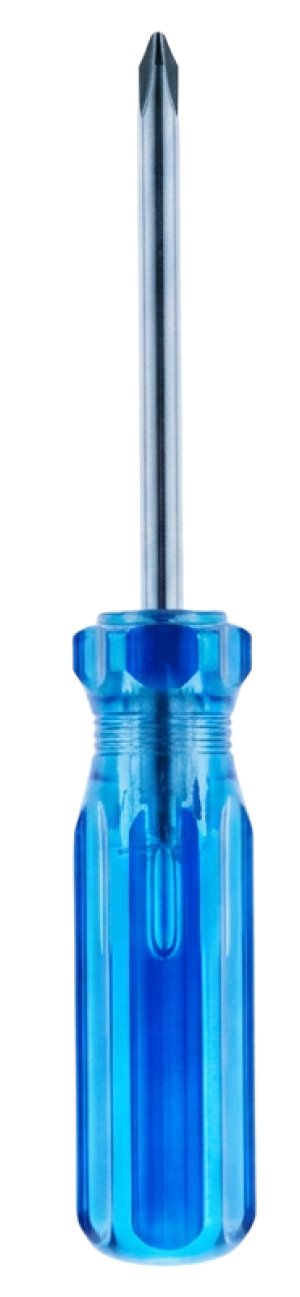
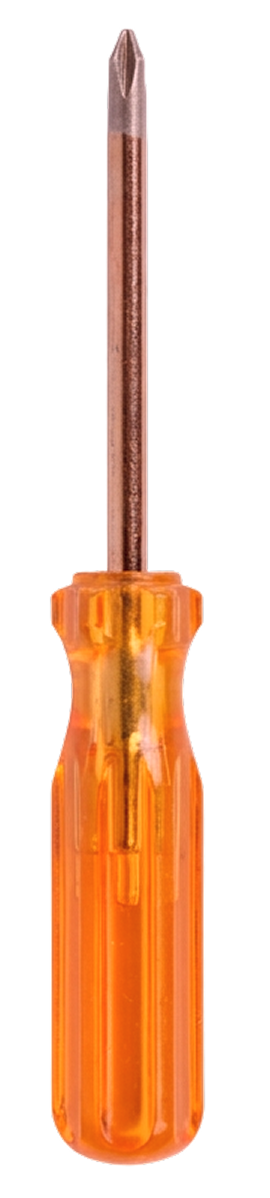
yeee

diff --git a/src/components/CanvasItem.vue b/src/components/CanvasItem.vue
@@ -18,6 +18,7 @@
       :style="imageStyle"
     >
     <slot v-else />
+    <span v-if="badge" class="canvas-item__badge type-h3" aria-hidden="true">{{ badge }}</span>
   </div>
 </template>
 
@@ -57,6 +58,10 @@ const props = defineProps({
   alt: {
     type: String,
     default: '',
+  },
+  badge: {
+    type: [String, Number],
+    default: null,
   },
   hover: {
     type: Boolean,
@@ -156,5 +161,29 @@ const positionStyle = computed(() => {
 
 .canvas-item__image--auto-height {
   height: auto;
+}
+
+.canvas-item__badge {
+  position: absolute;
+  bottom: 8px;
+  left: 8px;
+  display: inline-flex;
+  align-items: center;
+  justify-content: center;
+  width: 1.75rem;
+  height: 1.75rem;
+  border: 1px solid var(--color-black);
+  border-radius: 50%;
+  line-height: 1;
+  pointer-events: none;
+  transition:
+    background-color 0.2s ease-out,
+    border-color 0.2s ease-out;
+}
+
+/* Hovering the object fills its numeral in, dropping the outline. */
+.canvas-item:not(.canvas-item--decorative):hover .canvas-item__badge {
+  border-color: transparent;
+  background: var(--color-yellow);
 }
 </style>

diff --git a/src/App.vue b/src/App.vue
@@ -120,9 +120,9 @@ watch(article02Open, (isOpen) => {
     <Canvas>
       <RecordPlayer :left="recordLeft" :top="recordTop" :size="RECORD_SIZE" />
       <CanvasItem :left="1430" :top="800" :width="480" :src="assetUrl('canvas/collage.png')"
-        alt="Collage of cut paper and printed fragments" @click="openArticle01" />
+        alt="Collage of cut paper and printed fragments" badge="2" @click="openArticle02" />
       <CanvasItem :left="100" :top="810" :width="460" :src="assetUrl('canvas/stencil.png')"
-        alt="Lettering stencil sheet" @click="openArticle02" />
+        alt="Lettering stencil sheet" badge="1" @click="openArticle01" />
       <CanvasItem :left="760" :top="400" :width="420" :rotate="-4" :interactive="false"
         :src="assetUrl('canvas/pencil.png')" alt="Pencil" />
       <CanvasItem :left="540" :top="320" :width="62" :rotate="9" :interactive="false"
